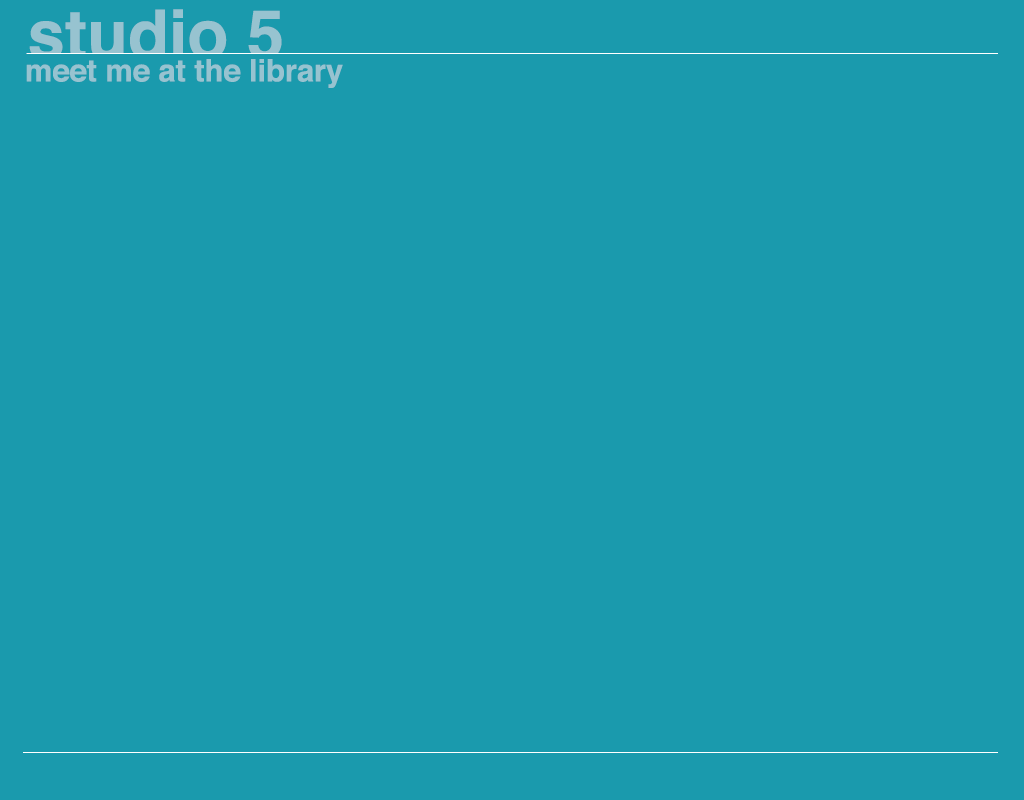
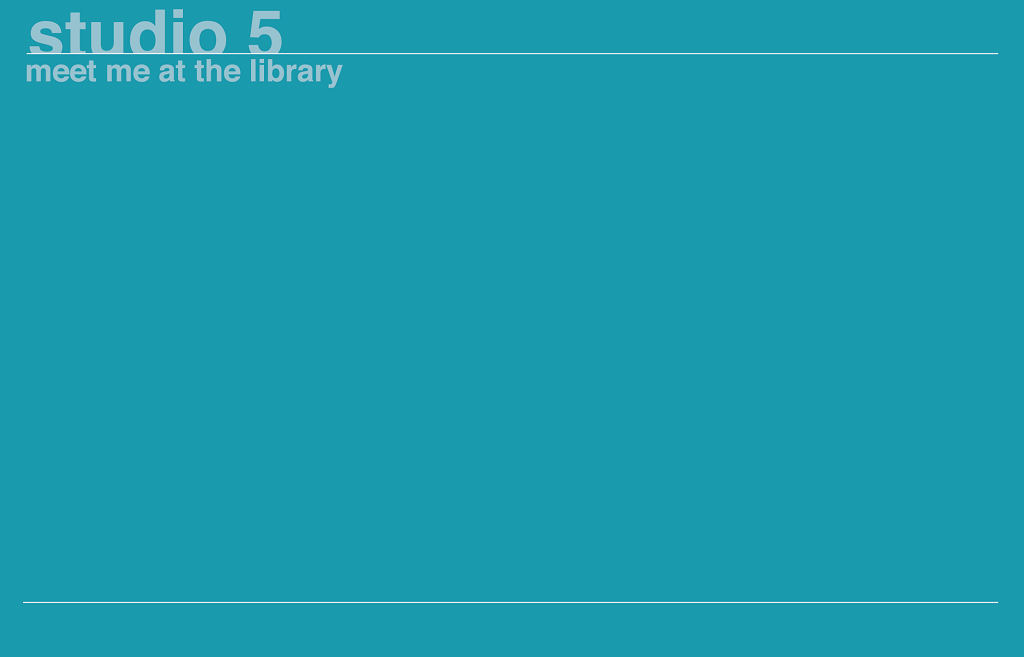
setting up studio5 bkgd

Changed region(s): [[0.0, 0.0, 0.9688, 0.1218], [0.0312, 0.9132, 0.9688, 0.9437], [0.1562, 0.0, 0.1875, 0.0304]]

diff --git a/studio5/style.css b/studio5/style.css
@@ -46,7 +46,55 @@ table {
 
 body {
   width: 1024px;
+  height: auto;
   background-image: url("studio5.png");
   background-repeat: no-repeat;
-  margin: 0;
+  background-position: top;
+  background-color: rgb(35, 100, 100);
+  margin: auto;
+}
+
+main {
+  height: 600px;
+}
+
+nav {
+  width: 400px;
+  float: right;
+}
+
+li {
+  display: inline-block;
+  margin-top: 18px;
+}
+
+a {
+  text-decoration: none;
+  color: white;
+  font-family: sans-serif;
+  font-size: 14px;
+  padding: 20px;
+  cursor: pointer;
+}
+
+a:hover {
+  color: teal;
+  background-color: white;
+  transition: all .3s ease;
+}
+
+footer {
+  position: relative;
+  right: 0;
+  left: 0;
+  bottom: 0;
+  margin: auto;
+  max-width: 1024px;
+  height: 40px;
+}
+
+footer a {
+  position: relative;
+  float: right;
+  padding: 18px;
 }
